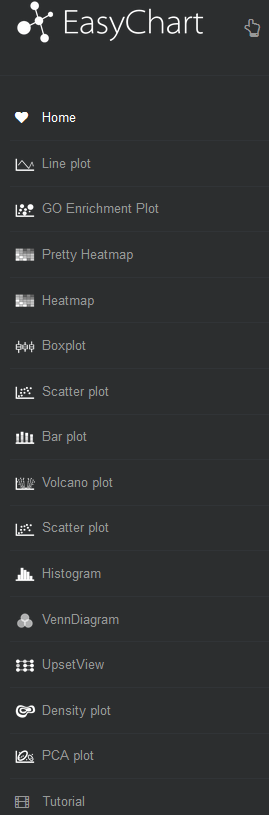
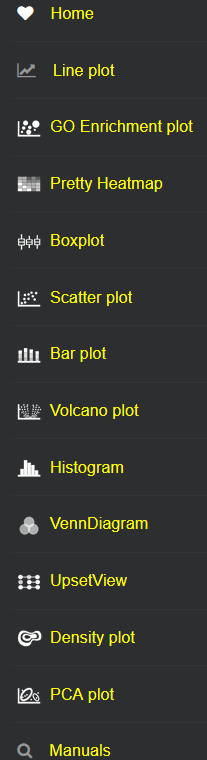
imageGP FOR <_posts/2017-12-27-ImageGP.md images/imageGP/*>

diff --git a/_posts/2017-12-27-ImageGP.md b/_posts/2017-12-27-ImageGP.md
@@ -1,0 +1,97 @@
+---
+title: 高颜值可定制在线作图工具-第二版
+author: ct
+layout: post
+categories:
+  - Bioinfo
+tags:
+  - Bioinfo
+---
+
+
+生信宝典推出之前推出了一系列画图相关文章，包括多种形式的热图、线图、柱状图、箱线图、泡泡图、韦恩图、进化树、火山图、生存分析、共表达分析聚类如等([可点击文末链接直达](http://mp.weixin.qq.com/s/bsvB1k17Izom2ldgdwXrdg))，都是基于R代码或简便封装的R脚本，便于学习和使用。另外还有[Cytoscape](http://mp.weixin.qq.com/s/C4EBufEtFF6bhBKrH8NXng)和其它作图工具以及[图形排版](http://mp.weixin.qq.com/s/HTsufk71U3wf14OOWSKEeQ)的介绍，是在家作图、出门收藏的必备良品。
+
+现在推出的线上版设计有生信分析常见的`12`种图, 推出到现在独立访问次数达到**8000+**次，平均每人访问页面**5+**次, 总计打开次数**4万+**次。具体使用和样例可见之前的推文[最简单漂亮的免费在线生信绘图工具](http://mp.weixin.qq.com/s/pTHHqxuf0y1MCCCBaZjt9A)。在大家不断的反馈下，新版做出了很多调整，提示信息更友好，工具更容易使用了。下面简单介绍下访问统计、最常使用的工具、新版的改进和操作方式，希望大家多多使用，给出更多的反馈。
+
+![](http://blog.genesino.com/images/imageGP/easyChart_list.png)
+
+### 访问统计
+
+推出到现在独立访问次数达到**8000+**次，平均每人访问页面**5+**次。
+
+![](http://blog.genesino.com/images/imageGP/ImageGP1_record.png)
+
+月度最受欢迎页面是`热图`、`富集分析图`和`线图`，排名第四的是`火山图`。学习[GO富集分析](http://mp.weixin.qq.com/s/d1KCETQZ88yaOLGwAtpWYg)和[GSEA富集分析](http://mp.weixin.qq.com/s/3Nd3urhfRGkw-F0LGZrlZQ)的原理和操作，点击关键字直达, 还有[去东方，最好用的在线GO富集分析工具, 数据每周同步更新](http://mp.weixin.qq.com/s/l6j2encDfEQkt2UeNCMFhg)等你体验。
+
+![](http://blog.genesino.com/images/imageGP/ImageGP1_month.png)
+
+### 功能改进
+
+1. 对需要有必填参数的绘图，增加了**Demo**按钮。点击**Demo**后，可看到非默认参数都标记了<mark>黄色</mark>背景，从上到下浏览下去，就可以看到参数如何填写的，然后点击**PLOT**就可以查看出图效果。如果一个图没看到**Demo**按钮，那说明没有必选，直接点击**PLOT**就可以看到绘图效果。
+
+   ![](http://blog.genesino.com/images/imageGP/line_demo1.png)
+
+2. 增加了数据的预先读取，把列名字存储到对应的下拉框中。这样既省去了输入，又避免了不知道填写什么内容的尴尬。因为必选项一般是数据的**列名字**，不常用程序语言绘图的朋友可能对这个缺少一些概念理解，程序是通过列名字索引某一列的内容的，所以只需要把数据放到数据库，提供列名字就可以了。
+
+   如下图，需要指定哪一列做为横轴，比如`GeneRatio`，哪一列做纵轴，比如`Description`，哪一列指示上色方案，哪一列指示点的大小，都可以从下拉框中选择。可以用上面的**Demo**帮您演示，或者直接看每个图最开始的**轮播**，上面有详细的输入数据格式、参数选择和结果图形展示。
+   
+   ![](http://blog.genesino.com/images/imageGP/data_format_xialakuang.png)
+
+3. 增加了数据格式判断。若输入的数据存在一些不符合后台语言规则的写法，给出提示。主要针对数据的第一行 (也就是列名字)，存在非数字、字母、下划线外的字符。我们在Windows下很友好，写作文字时不太习惯这种方式，系统会帮助判断，规范写法，避免后期出现意料外的错误。这个是大家反馈最多的问题。
+
+   ![](http://blog.genesino.com/images/imageGP/data_format_detection.png)
+
+4. 每个图都可以下载**PDF**格式，这个是一直都有的功能，现在只是优化了显示位置。
+
+5. 可选参数的面包默认都是关闭状态，可点击每个面板右上角的**+**打开查看，获取更多的功能和更高的定制性。
+
+6. 增加了更多的参数判断和数据格式支持，比如绘制热图，有时给的矩阵会有重复的基因名字(尤其是无参转录组的结果)，自己匹配的基因，没有严格命名，而在Windows下重名也不会有影响，我们增加了默认给重复的基因名加一个编号的操作，这样就不会出现错误，完好出图。不过还是建议大家自己核查结果，是否有必要自己先对基因重新命名下。UpsetView是另一种形式的韦恩图，可能大家接触不多，对它的数据格式也不了解，现在是维恩图绘制的数据，可以直接拿来绘制UpsetView，使用更方便。
+
+7. FAQ页面，搜集了一些常见的错误。这也是我们在做[转录组](http://mp.weixin.qq.com/s/BmtIOcIzIutufFilbJIgEA)和[绘图培训](http://mp.weixin.qq.com/s/aRuaX-qXlHkF2vme9QqWag)时，学员常犯的错误。不过慢慢地这些错误都不会在出现了，要么被我们优化了后台处理，要么给出了贴心的提醒。
+
+如果您使用过程中，遇到问题，请直接联系我们或填写**Problem Feedback**页面，我们会及时解答。如果有新的功能需求或其它对我们发展的建议，也请提出，我们会优先添加。我们会加您入抢先用户群，体验更多新功能，后期也会有很多福利哦。
+
+   
+### R绘图文章
+
+* [在R中赞扬下努力工作的你，奖励一份CheatShet](http://mp.weixin.qq.com/s/x3tWrQPriLRFXO8ZaD93EQ)
+* [R语言学习 - 入门环境Rstudio](http://mp.weixin.qq.com/s?__biz=MzI5MTcwNjA4NQ==&amp;mid=2247483882&amp;idx=1&amp;sn=e16903b4b745a1ef51855be3824149f6&amp;chksm=ec0dc460db7a4d76a70bd4ca2d250f147225252ee963d3e577affaebeeb81dea1ff639d5e9aa#rd)
+* [R语言学习 - 热图绘制 (heatmap)](http://mp.weixin.qq.com/s?__biz=MzI5MTcwNjA4NQ==&amp;mid=2247483889&amp;idx=1&amp;sn=9c9970cb120ac1e976713aca558ac9bf&amp;chksm=ec0dc47bdb7a4d6d6441e36055aa075b03d5592862eae01c05761e5972b39a62cf2228b19787#rd)
+* [R语言学习 - 基础概念和矩阵操作](http://mp.weixin.qq.com/s?__biz=MzI5MTcwNjA4NQ==&amp;mid=2247483891&amp;idx=1&amp;sn=40daf6435398c4d9a41f332e9bba4915&amp;chksm=ec0dc479db7a4d6fec413bfb90a4660eb035b440d2bbee998114f7af29e3b3338a8adf62540a#rd)
+* [R语言学习 - 热图简化](http://mp.weixin.qq.com/s?__biz=MzI5MTcwNjA4NQ==&amp;mid=2247483921&amp;idx=1&amp;sn=8326bc566e945386cad27250a33a1bf6&amp;chksm=ec0dc79bdb7a4e8d28bb909994432dab9bf09346b6f64a35ec1e657cbb298f10ca20c6838ca7#rd)
+* [R语言学习 - 热图美化](http://mp.weixin.qq.com/s?__biz=MzI5MTcwNjA4NQ==&amp;mid=2247483901&amp;idx=1&amp;sn=5770a863352acd8f8aec3e157131bef8&amp;chksm=ec0dc477db7a4d61e5ee49323529d5b406941f0b2ebb63a8a8e7f35b28b97ada059692671c5b#rd)
+* [R语言学习 - 线图绘制](http://mp.weixin.qq.com/s?__biz=MzI5MTcwNjA4NQ==&amp;mid=2247483937&amp;idx=1&amp;sn=8368c9346ccce10121c8a7b574c12f88&amp;chksm=ec0dc7abdb7a4ebd859713b8740b53f148e3ebb5047776e9cf42f2306ab082b6b968568f2f23#rd)
+* [R语言学习 - 线图一步法](http://mp.weixin.qq.com/s?__biz=MzI5MTcwNjA4NQ==&amp;mid=2247483947&amp;idx=1&amp;sn=7cf0252efff5433447507b977fcaff97&amp;chksm=ec0dc7a1db7a4eb77a269709bdf2c8ab51bcad89aa780ec0be171a333e1cb8f3cc27eff277a1#rd)
+* [R语言学习 - 箱线图（小提琴图、抖动图、区域散点图）](http://mp.weixin.qq.com/s?__biz=MzI5MTcwNjA4NQ==&amp;mid=2247483964&amp;idx=1&amp;sn=ee52ac37fb9a919f5c75c0abe2a49ad4&amp;chksm=ec0dc7b6db7a4ea0a51306347fc43265c41fda3eeaf4764ddc3795546371327579676cd74a38#rd)
+* [R语言学习 - 箱线图一步法](http://mp.weixin.qq.com/s?__biz=MzI5MTcwNjA4NQ==&amp;mid=2247483971&amp;idx=1&amp;sn=1b40a1137ccb8b2fa1ab3eb1d0f05de9&amp;chksm=ec0dc7c9db7a4edf16ea4966b9acb7f23cd23bd6a2e59450ae11bdac899fa2fceb124264dcf4#rd)
+* [R语言学习 - 火山图](http://mp.weixin.qq.com/s?__biz=MzI5MTcwNjA4NQ==&amp;mid=2247483996&amp;idx=1&amp;sn=9a29d52e78e9acffeb0a78077a14f9f2&amp;chksm=ec0dc7d6db7a4ec0163259e81e4ded54875a5dd8adaafbc6975a86c71223d863627ba37801e5#rd)
+* [R语言学习 - 富集分析泡泡图 （文末有彩蛋）](http://mp.weixin.qq.com/s?__biz=MzI5MTcwNjA4NQ==&amp;mid=2247483978&amp;idx=1&amp;sn=e0c158c0e92375553036cc37f4987e40&amp;chksm=ec0dc7c0db7a4ed6ac593493b7d8b52f11f2feb92d24fa00d19527fbb6f95b24f7e313ef9440#rd")
+* [R语言学习 - 散点图绘制](http://mp.weixin.qq.com/s?__biz=MzI5MTcwNjA4NQ==&amp;mid=2247484056&amp;idx=1&amp;sn=f9b2b4f7495b432e9294b7cbf42eaf33&amp;chksm=ec0dc712db7a4e04769d322558364b4b401b0a8153097c7252e83170e9201a31c2a7abbaf101#rd)
+* [一文看懂PCA主成分分析](http://mp.weixin.qq.com/s?__biz=MzI5MTcwNjA4NQ==&amp;mid=2247484036&amp;idx=1&amp;sn=22ee356d0c9680d56dada1b777985ed2&amp;chksm=ec0dc70edb7a4e182a21475e9ddcde35b907c291549cc8c2e767be260af445ff5455aa358b04#rd)
+* [富集分析DotPlot，可以服](http://mp.weixin.qq.com/s?__biz=MzI5MTcwNjA4NQ==&amp;mid=2247484063&amp;idx=1&amp;sn=f4e93d428e4910b4abbee9c0430cd170&amp;chksm=ec0dc715db7a4e0318b388ba2ab3d51677741421c42ada474a0ac6046a0699283014eae84b6f#rd)
+* [R语言学习 - 韦恩图](http://mp.weixin.qq.com/s?__biz=MzI5MTcwNjA4NQ==&mid=2247484076&idx=1&sn=fa5af19a2a4db4b0c5c7f145bf93ca57&chksm=ec0dc726db7a4e30fe7a0492ed9ea8eb5fa1c34641b1442a2da003efde0546b30c48fde3f118#rd)
+* [R语言学习 - 柱状图](http://mp.weixin.qq.com/s?__biz=MzI5MTcwNjA4NQ==&amp;mid=2247484134&amp;idx=1&amp;sn=ffb41298eae74834af2f5dad05d37921&amp;chksm=ec0dc76cdb7a4e7a852ac0670532c12c690399f140a2335f640eaf01f7da26bc5480941686a9#rd)
+* [R语言学习 - 图形设置中英字体](http://mp.weixin.qq.com/s/NAwyvtTS7t5rRU7KKBwHTA)
+* [教师节献礼 - 文章用图的修改和排版](https://mp.weixin.qq.com/s/IJNyhinakY0lSXgCN7b9ug)
+* [R语言学习 - 非参数法生存分析](http://mp.weixin.qq.com/s/_Dy9Yn8fc8I0rASGxH5x9A)
+* [基因共表达聚类分析和可视化](http://mp.weixin.qq.com/s/ST2SAmfKOptpJOHS8podmQ)
+* [R中1010个热图绘制方法](http://mp.weixin.qq.com/s/N7oLvJ1oPIImgybJVVSxXg)
+
+### 激动人心的访问地址
+
+<mark>长按二维码即可跳转到对应网址 <http://www.ehbio.com/ImageGP/></mark>
+
+![](http://www.ehbio.com/ehbio_resource/easy_chart.png)
+
+## 生信宝典，一起学生信
+
+[http://mp.weixin.qq.com/s/i71OMaUu6QtcY0pt1njHQA](http://mp.weixin.qq.com/s/i71OMaUu6QtcY0pt1njHQA)
+
+## 生信宝典，生物信息学习系列教程，转录组，宏基因组，外显子组，R作图，Python学习，Cytoscape视频教程
+
+[http://mp.weixin.qq.com/s/d1KCETQZ88yaOLGwAtpWYg](http://mp.weixin.qq.com/s/d1KCETQZ88yaOLGwAtpWYg)
+
+## 生信宝典，最好的生物信息培训课程，培训课程资料
+
+[www.ehbio.com/Training](www.ehbio.com/Training)
+
